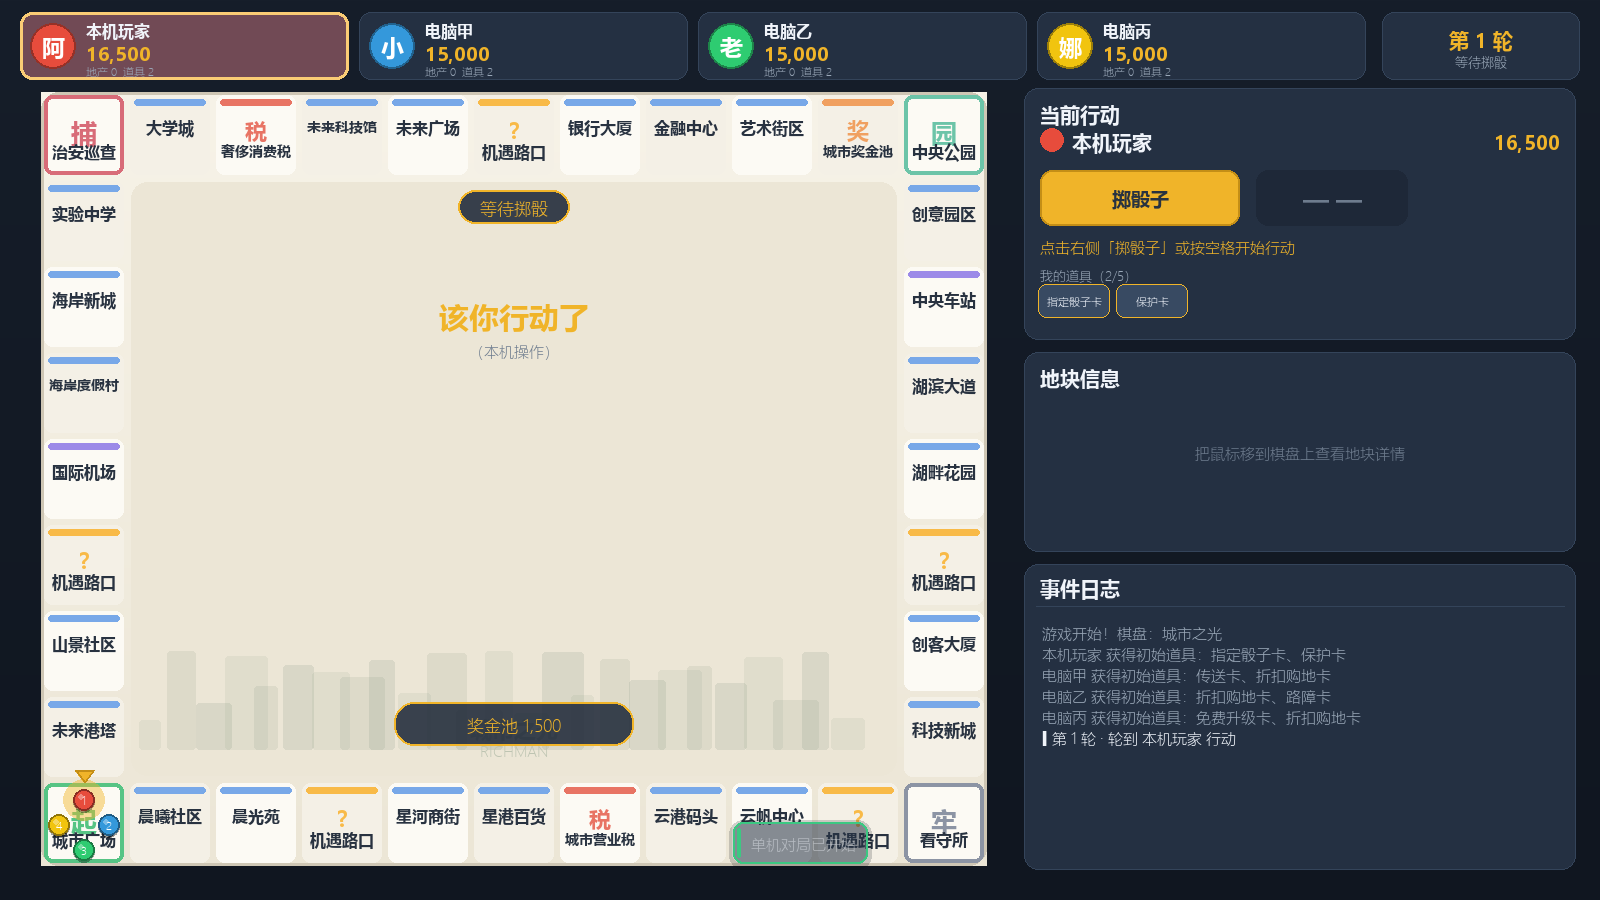
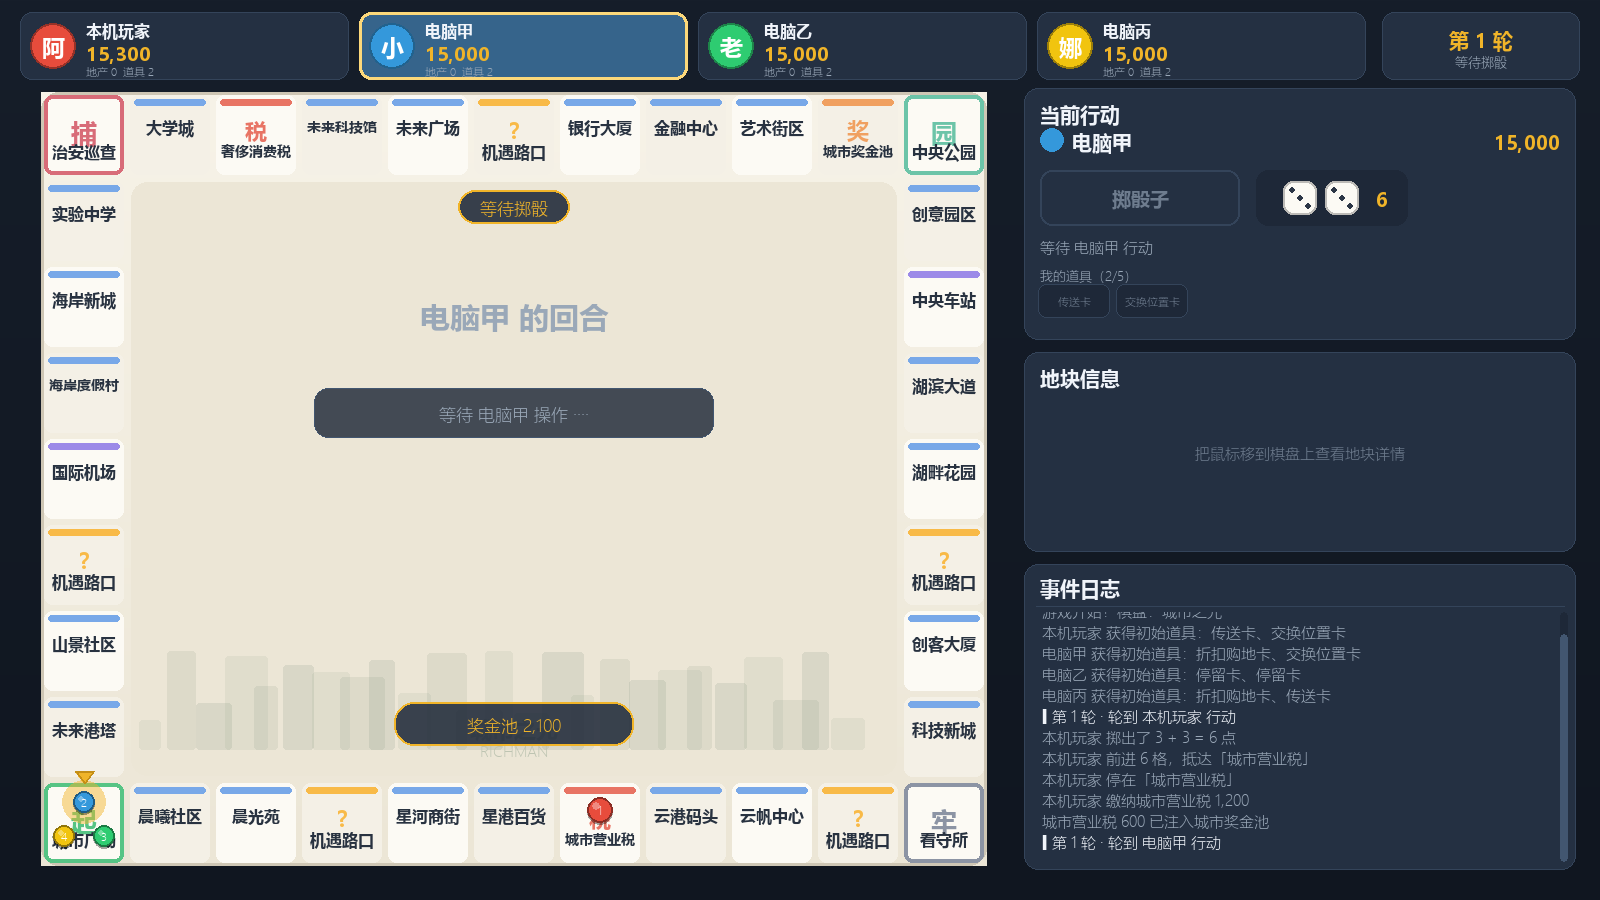
fix: make first launch work on a clean checkout
两个只有在「全新用户第一次打开」时才会暴露的问题：

1. run_game.bat 用 UTF-8 存中文，中文 Windows 的 cmd 按当前代码页解释批处理
   文件，提示文字变成乱码并连带破坏了 python.exe 那行命令，双击启动直接失败。
   改为纯 ASCII 文本（中文提示交给游戏窗口和 README）。

2. config/default.json 里 ui.font_scale 被误写成字符串 "default"，
   而 Settings.font_scale 会 float() 它 —— 由于用户设置文件不存在时才会
   合并这份默认值，所以只在首次运行时崩溃。
   修正默认值为 1.0，并给 Settings 的所有类型化读取加上保护：
   配置被手工改坏时回退到默认值并记日志，而不是让游戏起不来。

回归：pytest 106 通过；真实窗口启动自检通过；故意写坏配置后仍能启动。

diff --git a/src/persistence/settings.py b/src/persistence/settings.py
@@ -120,21 +120,48 @@ class Settings:
     def get(self, section: str, key: str, default: Any = None) -> Any:
         return (self.data.get(section) or {}).get(key, default)
 
+    # ---- 带类型保护的读取：配置文件被手工改错时也不应让游戏起不来
+    def _as_float(self, section: str, key: str, default: float) -> float:
+        try:
+            value = float(self.get(section, key, default))
+        except (TypeError, ValueError):
+            log.warning("设置 %s.%s 的值无效，使用默认值 %s", section, key, default)
+            return float(default)
+        return value
+
+    def _as_int(self, section: str, key: str, default: int) -> int:
+        try:
+            value = int(float(self.get(section, key, default)))
+        except (TypeError, ValueError):
+            log.warning("设置 %s.%s 的值无效，使用默认值 %s", section, key, default)
+            return int(default)
+        return value
+
+    def _as_bool(self, section: str, key: str, default: bool) -> bool:
+        value = self.get(section, key, default)
+        if isinstance(value, bool):
+            return value
+        if isinstance(value, str):
+            return value.strip().lower() in ("1", "true", "yes", "on")
+        if isinstance(value, (int, float)):
+            return bool(value)
+        return bool(default)
+
     def set(self, section: str, key: str, value: Any) -> None:
         self.data.setdefault(section, {})[key] = value
 
     # ---- 显示
     @property
     def width(self) -> int:
-        return int(self.get("display", "width", 1600))
+        return self._as_int("display", "width", 1600)
 
     @property
     def height(self) -> int:
-        return int(self.get("display", "height", 900))
+        return self._as_int("display", "height", 900)
 
     @property
     def fullscreen(self) -> bool:
-        return bool(self.get("display", "fullscreen", False))
+        return self._as_bool("display", "fullscreen", False)
 
     def set_resolution(self, width: int, height: int) -> None:
         self.set("display", "width", int(width))
@@ -146,36 +173,36 @@ class Settings:
     # ---- 音频
     @property
     def master_volume(self) -> float:
-        return float(self.get("audio", "master_volume", 0.7))
+        return self._as_float("audio", "master_volume", 0.7)
 
     @property
     def bgm_volume(self) -> float:
-        return float(self.get("audio", "bgm_volume", 0.45))
+        return self._as_float("audio", "bgm_volume", 0.45)
 
     @property
     def sfx_volume(self) -> float:
-        return float(self.get("audio", "sfx_volume", 0.8))
+        return self._as_float("audio", "sfx_volume", 0.8)
 
     @property
     def muted(self) -> bool:
-        return bool(self.get("audio", "muted", False))
+        return self._as_bool("audio", "muted", False)
 
     # ---- UI
     @property
     def animation_speed(self) -> float:
-        return float(self.get("ui", "animation_speed", 1.0))
+        return self._as_float("ui", "animation_speed", 1.0)
 
     @property
     def font_scale(self) -> float:
-        return float(self.get("ui", "font_scale", 1.0))
+        return self._as_float("ui", "font_scale", 1.0)
 
     @property
     def debug_overlay(self) -> bool:
-        return bool(self.get("ui", "debug_overlay", False))
+        return self._as_bool("ui", "debug_overlay", False)
 
     @property
     def show_tooltips(self) -> bool:
-        return bool(self.get("ui", "show_tooltips", True))
+        return self._as_bool("ui", "show_tooltips", True)
 
     # ---- 玩家
     @property
@@ -205,7 +232,7 @@ class Settings:
 
     @property
     def last_port(self) -> int:
-        return int(self.get("network", "last_port", 28080))
+        return self._as_int("network", "last_port", 28080)
 
     @property
     def last_room_name(self) -> str:
